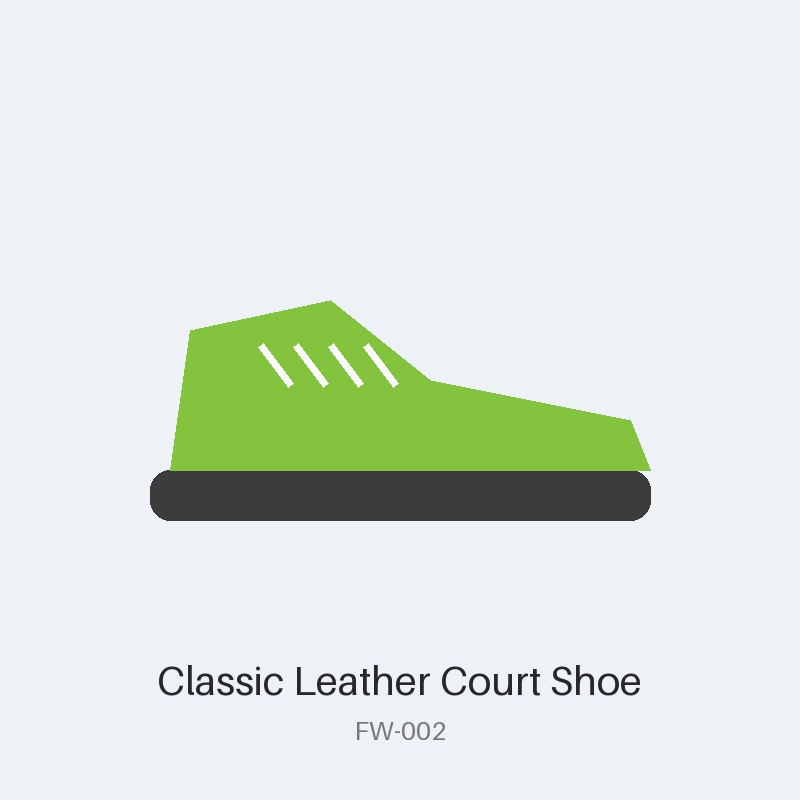
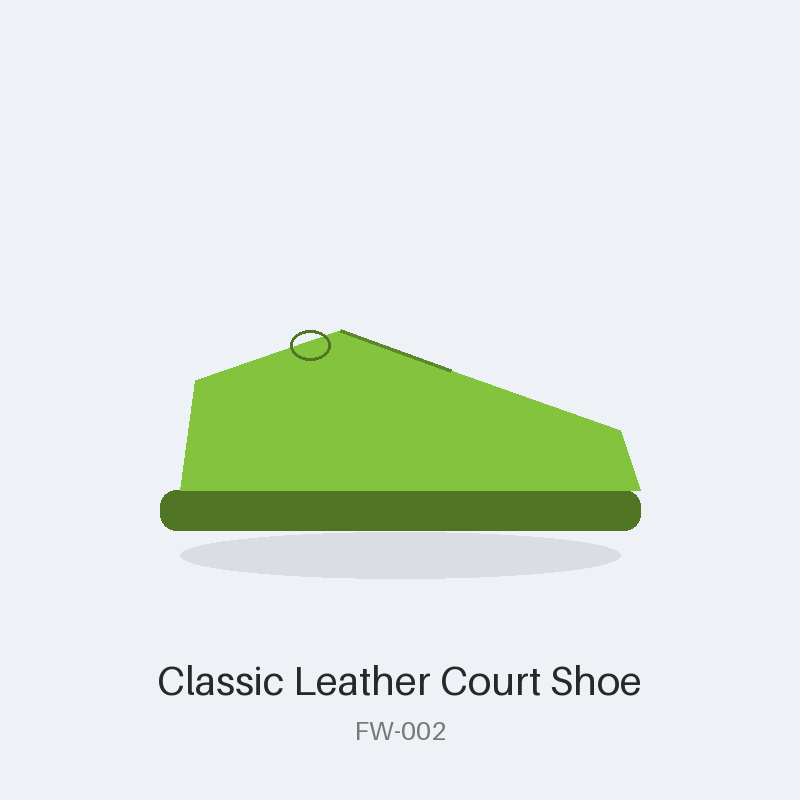
Give each product its own illustration instead of one shape per category
Every clothing item was rendering as the same generic t-shirt
silhouette (a jacket looked identical to a sweater); every shoe looked
the same. generate_product_images.py now has a distinct, hand-drawn
silhouette per SKU (hiking boot vs. court shoe vs. slip-on, trousers
vs. shorts vs. a 3-pack of folded tees, office chair vs. pour-over set
vs. stacked cookware, etc.), plus simple two-tone shading and a ground
shadow for a bit of depth. Still fully synthetic/license-free — no
external images, no API calls.

Caught and fixed two bugs during visual review (contact-sheet +
in-browser check): the sweater's ribbed cuffs and the button-down's
collar were drawn from coordinates that didn't actually align with the
garment shape, so they rendered as disconnected floating lines.

Regenerated all 20 images with:
    cd app/backend && uv run python ../seed/generate_product_images.py

Changed region(s): [[0.1875, 0.375, 0.8125, 0.6875]]

diff --git a/app/seed/generate_product_images.py b/app/seed/generate_product_images.py
@@ -1,7 +1,9 @@
 """Generate the catalog's product images (app/frontend/public/products/<SKU>.png).
 
-Simple, license-free illustrations: a category silhouette in a per-product
-colour, with the product name. Re-run after adding products:
+Simple, license-free illustrations — no photos, no external assets, nothing
+to license. Each SKU gets its own silhouette (a hiking boot looks different
+from a court shoe; a chair looks like a chair), two-tone shading for a little
+depth, and a soft ground shadow. Re-run after adding or changing products:
 
     cd app/backend && uv run python ../seed/generate_product_images.py
 """
@@ -9,6 +11,7 @@ colour, with the product name. Re-run after adding products:
 import hashlib
 import json
 from pathlib import Path
+from typing import Callable
 
 from PIL import Image, ImageDraw, ImageFont
 
@@ -23,71 +26,290 @@ BACKGROUNDS = {
     "home": (241, 243, 237),
 }
 
+RGB = tuple[int, int, int]
 
-def accent(sku: str) -> tuple[int, int, int]:
+
+def accent(sku: str) -> RGB:
     h = hashlib.sha256(sku.encode()).digest()
     return (60 + h[0] % 140, 60 + h[1] % 140, 60 + h[2] % 140)
 
 
-def draw_footwear(d: ImageDraw.ImageDraw, c: tuple[int, int, int]) -> None:
-    d.rounded_rectangle((150, 470, 650, 520), radius=20, fill=(60, 60, 60))  # sole
-    d.polygon([(170, 470), (190, 330), (330, 300), (430, 380), (630, 420), (650, 470)], fill=c)
+def shade(c: RGB, factor: float) -> RGB:
+    """`factor` < 1 darkens, > 1 lightens."""
+    return (
+        max(0, min(255, int(c[0] * factor))),
+        max(0, min(255, int(c[1] * factor))),
+        max(0, min(255, int(c[2] * factor))),
+    )
+
+
+def ground_shadow(d: ImageDraw.ImageDraw, bg: RGB, cx: int, cy: int, w: int, h: int) -> None:
+    d.ellipse((cx - w / 2, cy - h / 2, cx + w / 2, cy + h / 2), fill=shade(bg, 0.92))
+
+
+# --- Footwear -----------------------------------------------------------
+
+
+def draw_sneaker(d: ImageDraw.ImageDraw, c: RGB, bg: RGB) -> None:
+    ground_shadow(d, bg, 400, 560, 460, 50)
+    d.rounded_rectangle((150, 475, 650, 525), radius=20, fill=shade(c, 0.55))  # sole
+    d.polygon([(170, 475), (190, 335), (330, 305), (430, 385), (630, 425), (650, 475)], fill=c)
+    d.polygon([(170, 475), (190, 335), (260, 322), (300, 400), (300, 475)], fill=shade(c, 1.15))
     for x in range(260, 400, 35):  # laces
-        d.line((x, 345, x + 30, 385), fill=(250, 250, 250), width=8)
+        d.line((x, 350, x + 30, 390), fill=(250, 250, 250), width=8)
 
 
-def draw_clothing(d: ImageDraw.ImageDraw, c: tuple[int, int, int]) -> None:
+def draw_court_shoe(d: ImageDraw.ImageDraw, c: RGB, bg: RGB) -> None:
+    ground_shadow(d, bg, 400, 555, 440, 46)
+    d.rounded_rectangle((160, 490, 640, 530), radius=16, fill=shade(c, 0.6))  # cupsole
+    d.polygon([(180, 490), (195, 380), (340, 330), (450, 370), (620, 430), (640, 490)], fill=c)
+    d.line((340, 330, 450, 370), fill=shade(c, 0.7), width=4)  # stitched cupsole seam
+    d.ellipse((290, 330, 330, 360), outline=shade(c, 0.6), width=3)  # eyelet detail
+
+
+def draw_hiking_boot(d: ImageDraw.ImageDraw, c: RGB, bg: RGB) -> None:
+    ground_shadow(d, bg, 400, 565, 460, 50)
+    # lugged outsole: a row of chunky segments
+    for i, x in enumerate(range(170, 630, 46)):
+        d.rounded_rectangle((x, 500, x + 38, 535), radius=6, fill=shade(c, 0.4 + 0.05 * (i % 2)))
+    d.polygon([(180, 500), (195, 300), (260, 250), (420, 260), (460, 340), (610, 400), (630, 500)], fill=c)
+    d.rounded_rectangle((200, 255, 400, 300), radius=18, fill=shade(c, 1.2))  # ankle collar
+    for y in range(330, 440, 30):  # lace hooks
+        d.ellipse((330, y, 350, y + 14), fill=(60, 60, 60))
+
+
+def draw_slip_on(d: ImageDraw.ImageDraw, c: RGB, bg: RGB) -> None:
+    ground_shadow(d, bg, 400, 545, 440, 44)
+    d.rounded_rectangle((170, 480, 630, 515), radius=18, fill=shade(c, 0.55))
+    d.polygon([(190, 480), (215, 370), (380, 320), (480, 360), (610, 420), (630, 480)], fill=c)
+    d.arc((380, 330, 480, 420), start=200, end=340, fill=shade(c, 0.6), width=6)  # elastic gusset
+
+
+def draw_slipper(d: ImageDraw.ImageDraw, c: RGB, bg: RGB) -> None:
+    ground_shadow(d, bg, 400, 520, 420, 38)
+    d.rounded_rectangle((190, 470, 610, 505), radius=16, fill=shade(c, 0.6))
+    d.ellipse((200, 370, 600, 490), fill=c)
+    d.ellipse((260, 390, 540, 480), fill=shade(c, 1.18))  # soft fuzzy opening
+
+
+FOOTWEAR: dict[str, Callable] = {
+    "FW-001": draw_sneaker,
+    "FW-002": draw_court_shoe,
+    "FW-003": draw_hiking_boot,
+    "FW-004": draw_slip_on,
+    "FW-005": draw_slipper,
+}
+
+
+# --- Clothing -------------------------------------------------------------
+
+
+def _tee_shape(d: ImageDraw.ImageDraw, c: RGB, ox: int, oy: int, scale: float) -> None:
+    def p(x: float, y: float) -> tuple[float, float]:
+        return (ox + x * scale, oy + y * scale)
+
     d.polygon(
-        [
-            (300, 220),
-            (500, 220),
-            (640, 300),
-            (590, 380),
-            (540, 350),
-            (540, 580),
-            (260, 580),
-            (260, 350),
-            (210, 380),
-            (160, 300),
-        ],
+        [p(0, -80), p(200, -80), p(340, 0), p(290, 80), p(240, 50), p(240, 280), p(-40, 280), p(-40, 50), p(-90, 80), p(-140, 0)],
         fill=c,
     )
-    d.ellipse((350, 195, 450, 260), fill=BACKGROUNDS["clothing"])
+    d.ellipse((p(50, -105)[0], p(50, -105)[1], p(150, -45)[0], p(150, -45)[1]), fill=BACKGROUNDS["clothing"])
 
 
-def draw_electronics(d: ImageDraw.ImageDraw, c: tuple[int, int, int]) -> None:
-    d.rounded_rectangle((230, 220, 570, 560), radius=40, fill=c)
-    d.ellipse((320, 310, 480, 470), fill=(30, 30, 30))
-    d.ellipse((365, 355, 435, 425), fill=(90, 90, 90))
+def draw_sweater(d: ImageDraw.ImageDraw, c: RGB, bg: RGB) -> None:
+    ground_shadow(d, bg, 400, 610, 440, 36)
+    _tee_shape(d, c, 400, 330, 1.0)
+    d.line((260, 580, 540, 580), fill=shade(c, 0.6), width=6)  # ribbed hem
+    d.line((265, 345, 300, 400), fill=shade(c, 0.6), width=8)  # ribbed cuff, left sleeve edge
+    d.line((535, 345, 500, 400), fill=shade(c, 0.6), width=8)  # ribbed cuff, right sleeve edge
 
 
-def draw_home(d: ImageDraw.ImageDraw, c: tuple[int, int, int]) -> None:
-    d.rounded_rectangle((250, 260, 550, 470), radius=30, fill=c)  # body
-    d.rectangle((280, 470, 300, 590), fill=(70, 70, 70))  # legs
-    d.rectangle((500, 470, 520, 590), fill=(70, 70, 70))
-    d.rounded_rectangle((240, 440, 560, 480), radius=12, fill=(70, 70, 70))
+def draw_rain_jacket(d: ImageDraw.ImageDraw, c: RGB, bg: RGB) -> None:
+    ground_shadow(d, bg, 400, 610, 440, 36)
+    d.polygon(
+        [(350, 260), (355, 190), (400, 155), (445, 190), (450, 260)],
+        fill=shade(c, 1.15),
+        outline=shade(c, 0.6),
+        width=3,
+    )  # hood, sitting behind the collar
+    _tee_shape(d, c, 400, 340, 1.0)
+    d.line((400, 220, 400, 580), fill=shade(c, 0.55), width=5)  # center zip
+    for y in range(240, 580, 40):
+        d.ellipse((396, y, 404, y + 8), fill=shade(c, 0.4))  # zip teeth
+    d.line((270, 560, 310, 600), fill=shade(c, 0.6), width=5)  # drawstring hem
+    d.line((530, 560, 490, 600), fill=shade(c, 0.6), width=5)
 
 
-DRAW = {
-    "footwear": draw_footwear,
-    "clothing": draw_clothing,
-    "electronics": draw_electronics,
-    "home": draw_home,
+def draw_trousers(d: ImageDraw.ImageDraw, c: RGB, bg: RGB) -> None:
+    ground_shadow(d, bg, 400, 610, 400, 34)
+    d.rounded_rectangle((300, 200, 500, 280), radius=20, fill=shade(c, 1.1))  # waistband
+    d.polygon([(300, 260), (300, 580), (370, 580), (395, 330), (405, 330), (430, 580), (500, 580), (500, 260)], fill=c)
+    d.line((400, 260, 400, 560), fill=shade(c, 0.6), width=4)  # center crease
+    d.line((340, 290, 340, 560), fill=shade(c, 0.75), width=2)
+
+
+def draw_tee_3pack(d: ImageDraw.ImageDraw, c: RGB, bg: RGB) -> None:
+    ground_shadow(d, bg, 400, 580, 460, 40)
+    _tee_shape(d, shade(c, 0.75), 330, 420, 0.65)
+    _tee_shape(d, shade(c, 0.9), 400, 390, 0.65)
+    _tee_shape(d, c, 470, 360, 0.65)
+
+
+def draw_running_shorts(d: ImageDraw.ImageDraw, c: RGB, bg: RGB) -> None:
+    ground_shadow(d, bg, 400, 560, 420, 34)
+    d.rounded_rectangle((290, 280, 510, 350), radius=20, fill=shade(c, 1.1))  # waistband
+    d.polygon([(290, 330), (290, 500), (370, 500), (400, 400), (430, 500), (510, 500), (510, 330)], fill=c)
+    d.line((470, 300, 470, 490), fill=shade(c, 0.55), width=6)  # side stripe
+    d.rounded_rectangle((460, 360, 500, 400), radius=6, outline=shade(c, 0.5), width=3)  # zip pocket
+
+
+def draw_button_down(d: ImageDraw.ImageDraw, c: RGB, bg: RGB) -> None:
+    ground_shadow(d, bg, 400, 610, 440, 36)
+    _tee_shape(d, c, 400, 340, 1.0)
+    d.polygon([(450, 245), (400, 320), (470, 290)], fill=shade(c, 1.2))  # collar points
+    d.polygon([(550, 245), (600, 320), (530, 290)], fill=shade(c, 1.2))
+    for y in range(260, 560, 45):  # buttons
+        d.ellipse((396, y, 404, y + 8), fill=shade(c, 0.5))
+
+
+CLOTHING: dict[str, Callable] = {
+    "CL-001": draw_sweater,
+    "CL-002": draw_rain_jacket,
+    "CL-003": draw_trousers,
+    "CL-004": draw_tee_3pack,
+    "CL-005": draw_running_shorts,
+    "CL-006": draw_button_down,
 }
+
+
+# --- Electronics ------------------------------------------------------------
+
+
+def draw_headphones(d: ImageDraw.ImageDraw, c: RGB, bg: RGB) -> None:
+    ground_shadow(d, bg, 400, 560, 420, 34)
+    d.arc((260, 200, 540, 520), start=180, end=360, fill=c, width=26)  # headband
+    for cx in (270, 530):
+        d.ellipse((cx - 70, 400, cx + 70, 560), fill=c)
+        d.ellipse((cx - 45, 425, cx + 45, 535), fill=shade(c, 0.5))
+
+
+def draw_speaker(d: ImageDraw.ImageDraw, c: RGB, bg: RGB) -> None:
+    ground_shadow(d, bg, 400, 580, 380, 34)
+    d.rounded_rectangle((260, 260, 540, 560), radius=60, fill=c)
+    cx, cy = 400, 410
+    for r in (110, 80, 50):
+        d.ellipse((cx - r, cy - r, cx + r, cy + r), outline=shade(c, 0.5), width=4)
+    d.ellipse((cx - 14, cy - 14, cx + 14, cy + 14), fill=shade(c, 0.4))
+    d.rounded_rectangle((370, 530, 430, 545), radius=6, fill=shade(c, 0.5))  # button
+
+
+def draw_fitness_band(d: ImageDraw.ImageDraw, c: RGB, bg: RGB) -> None:
+    ground_shadow(d, bg, 400, 570, 420, 30)
+    d.arc((230, 230, 570, 650), start=200, end=340, fill=shade(c, 0.6), width=46)  # strap
+    d.rounded_rectangle((330, 310, 470, 430), radius=24, fill=c)  # body
+    d.rounded_rectangle((350, 330, 450, 410), radius=14, fill=(25, 25, 30))  # screen
+    d.rounded_rectangle((365, 345, 435, 365), radius=4, fill=shade(c, 1.3))  # screen highlight
+
+
+def draw_action_camera(d: ImageDraw.ImageDraw, c: RGB, bg: RGB) -> None:
+    ground_shadow(d, bg, 400, 560, 360, 32)
+    d.rounded_rectangle((280, 300, 520, 500), radius=30, fill=c)
+    d.ellipse((345, 330, 455, 440), fill=(30, 30, 30))
+    d.ellipse((365, 350, 435, 420), fill=(80, 80, 90))
+    d.ellipse((385, 370, 415, 400), fill=(150, 170, 190))  # lens glint
+    d.rounded_rectangle((340, 480, 460, 520), radius=10, fill=shade(c, 0.6))  # mount tab
+
+
+def draw_usb_hub(d: ImageDraw.ImageDraw, c: RGB, bg: RGB) -> None:
+    ground_shadow(d, bg, 400, 480, 380, 26)
+    d.rounded_rectangle((260, 380, 540, 460), radius=24, fill=c)
+    for x in range(290, 520, 60):
+        d.rounded_rectangle((x, 400, x + 36, 440), radius=6, fill=shade(c, 0.45))  # ports
+    d.rounded_rectangle((260, 380, 540, 400), radius=12, fill=shade(c, 1.2))  # top sheen
+
+
+ELECTRONICS: dict[str, Callable] = {
+    "EL-001": draw_headphones,
+    "EL-002": draw_speaker,
+    "EL-003": draw_fitness_band,
+    "EL-004": draw_action_camera,
+    "EL-005": draw_usb_hub,
+}
+
+
+# --- Home -------------------------------------------------------------------
+
+
+def draw_office_chair(d: ImageDraw.ImageDraw, c: RGB, bg: RGB) -> None:
+    ground_shadow(d, bg, 400, 610, 360, 30)
+    d.rounded_rectangle((300, 180, 500, 420), radius=40, fill=c)  # backrest
+    d.rounded_rectangle((280, 420, 520, 470), radius=20, fill=shade(c, 1.15))  # seat
+    d.line((300, 440, 250, 460), fill=shade(c, 0.6), width=10)  # armrests
+    d.line((500, 440, 550, 460), fill=shade(c, 0.6), width=10)
+    d.line((400, 470, 400, 540), fill=(90, 90, 90), width=10)  # gas lift
+    for angle in range(0, 360, 72):  # star base
+        import math
+
+        x2 = 400 + 110 * math.cos(math.radians(angle))
+        y2 = 560 + 40 * math.sin(math.radians(angle))
+        d.line((400, 560, x2, y2), fill=(90, 90, 90), width=8)
+        d.ellipse((x2 - 10, y2 - 6, x2 + 10, y2 + 6), fill=(60, 60, 60))
+
+
+def draw_pour_over(d: ImageDraw.ImageDraw, c: RGB, bg: RGB) -> None:
+    ground_shadow(d, bg, 400, 560, 420, 30)
+    d.polygon([(330, 300), (470, 300), (430, 400), (370, 400)], fill=c)  # dripper cone
+    d.rounded_rectangle((350, 400, 450, 520), radius=10, fill=shade(c, 1.15))  # carafe
+    d.polygon([(450, 430), (490, 420), (490, 460), (450, 460)], fill=shade(c, 1.15))  # handle-ish spout
+    for cx in (250, 560):  # two cups
+        d.rounded_rectangle((cx - 35, 460, cx + 35, 530), radius=8, fill=shade(c, 0.85))
+        d.arc((cx + 20, 475, cx + 55, 510), start=260, end=100, fill=shade(c, 0.85), width=6)
+
+
+def draw_cookware(d: ImageDraw.ImageDraw, c: RGB, bg: RGB) -> None:
+    ground_shadow(d, bg, 400, 560, 440, 32)
+    for i, (w, dy) in enumerate([(360, 0), (300, -70), (240, -130)]):
+        cy = 480 + dy
+        d.rounded_rectangle((400 - w / 2, cy - 30, 400 + w / 2, cy + 30), radius=16, fill=shade(c, 1.0 - 0.1 * i))
+        d.line((400 - w / 2 - 30, cy, 400 - w / 2, cy), fill=(70, 70, 70), width=8)  # handle
+        d.line((400 + w / 2, cy, 400 + w / 2 + 30, cy), fill=(70, 70, 70), width=8)
+
+
+def draw_pillow(d: ImageDraw.ImageDraw, c: RGB, bg: RGB) -> None:
+    ground_shadow(d, bg, 400, 540, 440, 34)
+    d.rounded_rectangle((220, 320, 580, 500), radius=70, fill=c)
+    d.line((230, 410, 570, 410), fill=shade(c, 0.85), width=4)  # seam
+    for x in (260, 540):
+        d.line((x, 335, x, 485), fill=shade(c, 0.85), width=3)  # corner fold lines
+
+
+HOME: dict[str, Callable] = {
+    "HM-001": draw_office_chair,
+    "HM-002": draw_pour_over,
+    "HM-003": draw_cookware,
+    "HM-004": draw_pillow,
+}
+
+DRAW: dict[str, Callable] = {**FOOTWEAR, **CLOTHING, **ELECTRONICS, **HOME}
 
 
 def main() -> None:
     OUT_DIR.mkdir(parents=True, exist_ok=True)
     title_font = ImageFont.load_default(size=40)
     small_font = ImageFont.load_default(size=26)
-    for product in json.loads((SEED_DIR / "products.json").read_text()):
-        img = Image.new("RGB", (SIZE, SIZE), BACKGROUNDS[product["category"]])
+    products = json.loads((SEED_DIR / "products.json").read_text())
+    for product in products:
+        sku, category = product["sku"], product["category"]
+        bg = BACKGROUNDS[category]
+        img = Image.new("RGB", (SIZE, SIZE), bg)
         d = ImageDraw.Draw(img)
-        DRAW[product["category"]](d, accent(product["sku"]))
+        draw = DRAW.get(sku)
+        if draw is None:
+            raise SystemExit(f"No illustration for {sku} — add one to generate_product_images.py")
+        draw(d, accent(sku), bg)
         d.text((SIZE / 2, 680), product["name"], font=title_font, fill=(40, 40, 40), anchor="mm")
-        d.text((SIZE / 2, 730), product["sku"], font=small_font, fill=(120, 120, 120), anchor="mm")
-        img.save(OUT_DIR / f"{product['sku']}.png", optimize=True)
-    print(f"Wrote {len(list(OUT_DIR.glob('*.png')))} images to {OUT_DIR}")
+        d.text((SIZE / 2, 730), sku, font=small_font, fill=(120, 120, 120), anchor="mm")
+        img.save(OUT_DIR / f"{sku}.png", optimize=True)
+    print(f"Wrote {len(products)} images to {OUT_DIR}")
 
 
 if __name__ == "__main__":
